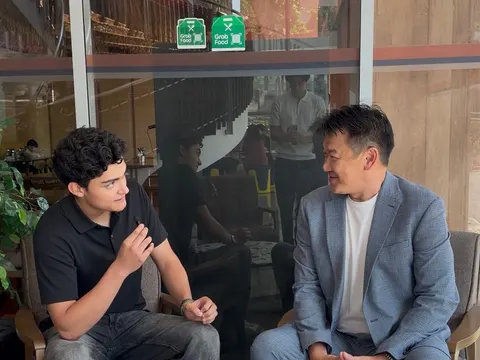
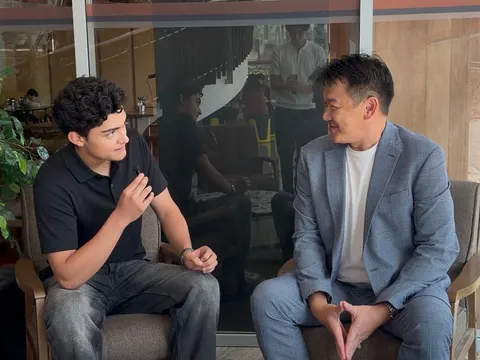
Fotos: reencuadre de la entrevista con Andy Toh y la foto del grupo en /community
La miniatura de Andy Toh iba con el foco en fy = 0.44 y la banda salia
0.23-0.65 de la foto: media cristalera vacia encima de las cabezas, las dos
personas empujadas contra el borde de abajo y las piernas cortadas. Medida la
foto con rejilla (es vertical, 900x1582): cabezas en 0.33-0.50, cuerpos hasta
0.70 y la mesa de terrazo de 0.70 para abajo. Con fy = 0.50 la banda pasa a
0.29-0.71: las caras caen en el tercio superior, entran los dos cuerpos y el
corte queda justo encima de la mesa.

La foto del grupo ya esta: public/assets/community/grupo-original.jpg
(3797x2848, ocho personas de pie delante del cartel). build-photos.mjs escribe
ahora grupo.webp (1600), grupo-800.webp y grupo.jpg, y GroupPhoto.astro pasa de
marcador de posicion a foto de verdad. El encuadre va escrito, no `center`: la
fila ocupa del 8 % al 95 % del alto y la caja 16:9 de escritorio solo enseña el
75 %, asi que con 50 % 24 % la banda visible es 6 %-81 % — entra el cartel,
entran las ocho cabezas con aire y lo que se recorta es el adoquin. En el 4:3
del telefono se ven las ocho personas enteras.

El original no se despliega (.vercelignore); se queda en el repo para poder
reencuadrar sin volver a pedirlo.

diff --git a/src/data/home.ts b/src/data/home.ts
@@ -51,7 +51,7 @@ export const RATES = {
 export interface Breakdown { id: string; titleKey: UIKey; altKey: UIKey; href: string; net: 'tiktok' | 'linkedin'; img: string; w: number; h: number; focus: string }
 export const BREAKDOWNS: Breakdown[] = [
   { id: 'japan', titleKey: 'post.japan.title', altKey: 'alt.japan', net: 'tiktok', href: 'https://www.tiktok.com/@smart.financee/video/7653328531694439700', img: '/assets/breakdowns/thumbs/breakdown-japan.webp', w: 480, h: 360, focus: '47% 50%' },
-  { id: 'andytoh', titleKey: 'post.andytoh.title', altKey: 'alt.andytoh', net: 'tiktok', href: 'https://www.tiktok.com/@smart.financee/video/7662781308988411156', img: '/assets/breakdowns/thumbs/breakdown-andy-toh.webp', w: 480, h: 360, focus: '48% 50%' },
+  { id: 'andytoh', titleKey: 'post.andytoh.title', altKey: 'alt.andytoh', net: 'tiktok', href: 'https://www.tiktok.com/@smart.financee/video/7662781308988411156', img: '/assets/breakdowns/thumbs/breakdown-andy-toh.webp', w: 480, h: 360, focus: '45% 50%' },
   { id: 'singapore', titleKey: 'post.singapore.title', altKey: 'alt.singapore', net: 'tiktok', href: 'https://www.tiktok.com/@smart.financee/video/7655111359419387157', img: '/assets/breakdowns/thumbs/breakdown-singapore.webp', w: 480, h: 360, focus: '54% 50%' },
   { id: 'jpmorgan', titleKey: 'post.jpmorgan.title', altKey: 'alt.jpmorgan', net: 'linkedin', href: 'https://www.linkedin.com/posts/jaime-sandoval-ricano-23b3a4401_great-experience-attending-an-insightful-activity-7450005569882738689-rTcJ', img: '/assets/breakdowns/thumbs/breakdown-jpmorgan-etf.webp', w: 480, h: 360, focus: '50% 38%' },
   { id: 'moris', titleKey: 'post.moris.title', altKey: 'alt.moris', net: 'linkedin', href: 'https://www.linkedin.com/posts/jaime-sandoval-ricano-23b3a4401_i-had-the-opportunity-to-attend-a-conference-activity-7455446269097033728-Z8sn', img: '/assets/breakdowns/thumbs/breakdown-moris-dieck.webp', w: 480, h: 360, focus: '51% 50%' },
